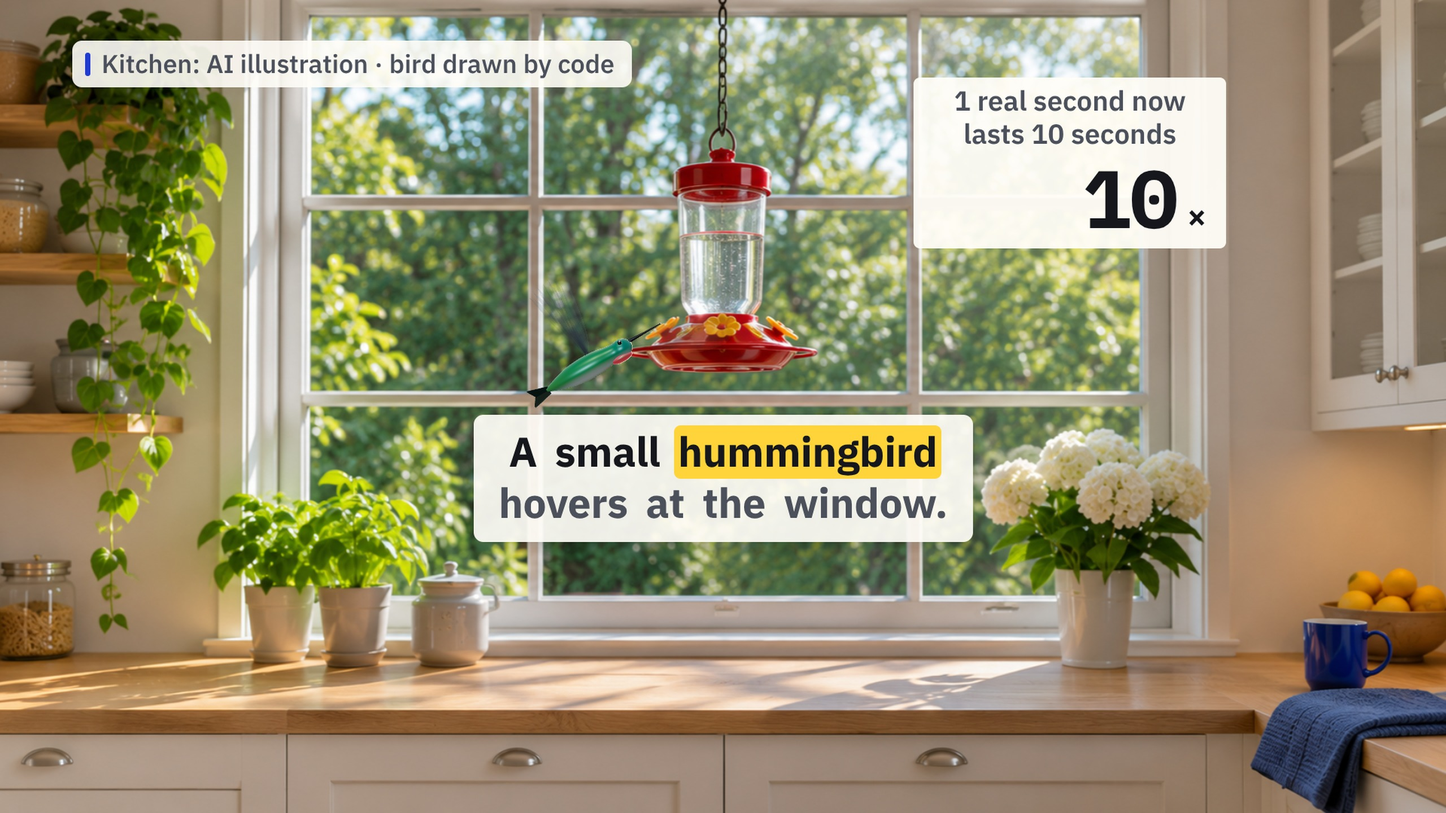
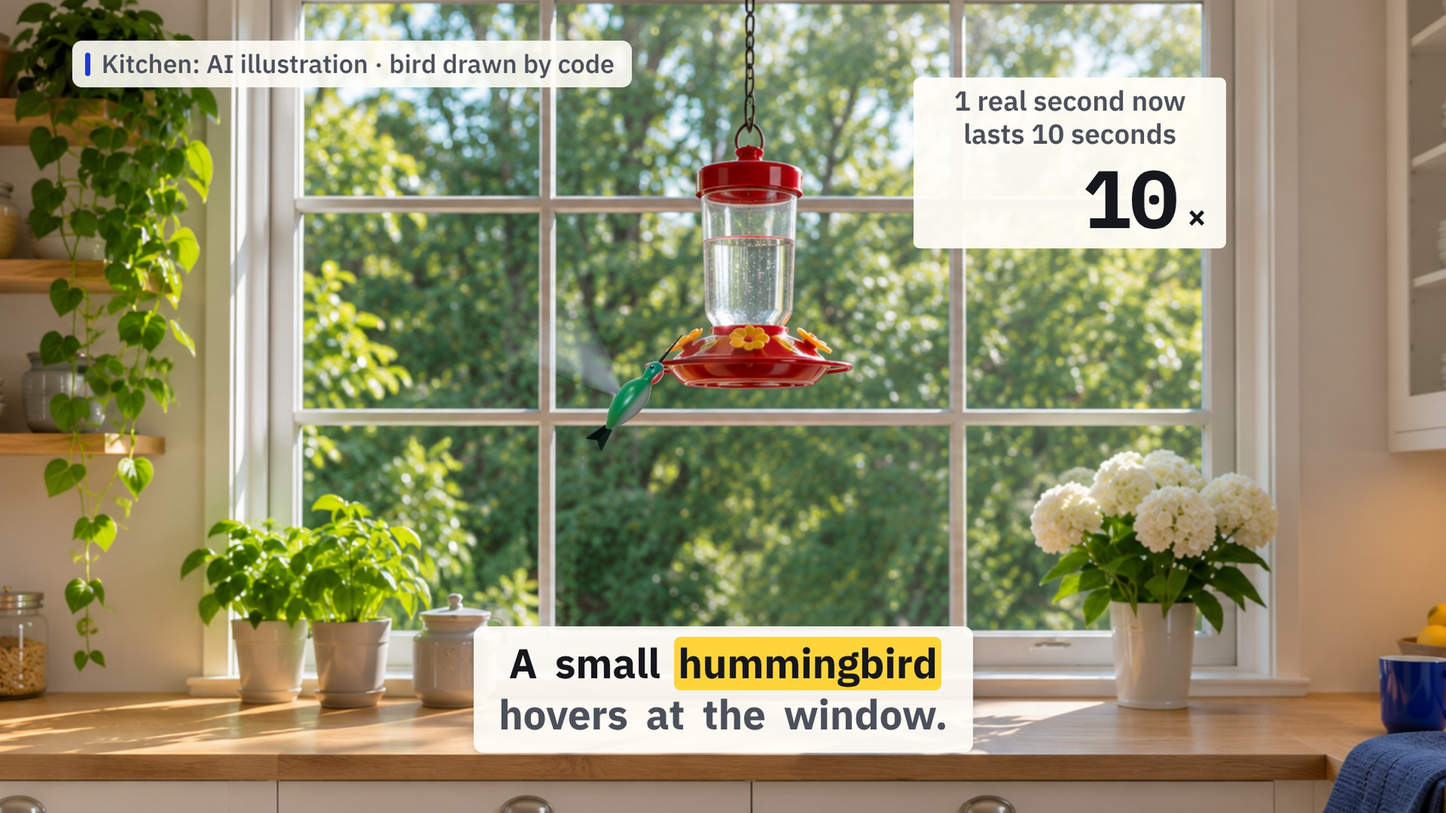
Plate-02: compact full-chested body, round head and neck, 50 deg pitch, wing trail and lighter vanes, slow push 1.0 to 1.35 centred on the bird and feeder, per-aspect caption height
Claude-Session: https://claude.ai/code/session_0192s8Y3nHgGCCsvNARxNLPn

diff --git a/films/channels/physics/set/plates.js b/films/channels/physics/set/plates.js
@@ -79,6 +79,8 @@ export const createPlates = ({ scene, camera, W, H, FILM, canvas }) => {
     it.ok = true;
   })).catch(() => {});
   const active = (t) => { for (const it of items) if (it.ok && t >= it.p.t0 && t < it.p.t1) return it; return null; };
+  // where the picture is moved so its subject sits at the frame's centre (metres at 1 m, the camera aims the same way): 9:16 uses shift9 at once, a push-in ramps its shift with the push so the picture's edge never shows
+  const shiftAt = (it, t) => { const p = it.p, d = Math.max(0, Math.min(1, (t - p.t0) / (p.t1 - p.t0))), sh = nine && p.shift9 ? p.shift9 : p.shift; if (!sh) return { x: 0, y: 0, ppm: 1 }; const k = nine && p.shift9 ? 1 : d; return { x: sh.x * k, y: (sh.y || 0) * d, ppm: sh.ppm }; };
   const apply = (t) => {
     for (const it of items) { for (const im of it.imgs) im.style.display = "none"; if (it.swapImg) it.swapImg.style.display = "none"; }
     const it = active(t); if (!it) return false;
@@ -87,16 +89,16 @@ export const createPlates = ({ scene, camera, W, H, FILM, canvas }) => {
     const swapped = it.swapImg && t >= it.p.swap.t;
     (swapped ? [it.swapImg] : it.imgs).forEach((im) => {
       const dep = +im.dataset.depth || 0, s = 1 + push * d * (p.cam3 ? 1 : 1 + 0.6 * dep), shift = par * (d - 0.5) * W * (1 + dep), over = p.over ?? (p.cam3 ? 1 : 1.04);
-      const cs = im.naturalWidth ? Math.max(W / im.naturalWidth, H / im.naturalHeight) : 1, sh9 = nine && p.shift9 ? -p.shift9.x * p.shift9.ppm * cs : 0;   // 9:16: the crop is moved so the subject sits at the centre (the camera yaws the same amount)
-      im.style.display = "block"; if (im.tagName === "IMG") im.style.objectPosition = `calc(50% + ${sh9.toFixed(2)}px) 50%`; im.style.opacity = String(Math.max(0, Math.min(1, a))); im.style.transform = `translate(${shift.toFixed(2)}px,0) scale(${(s * over).toFixed(5)})`;
+      const cs = im.naturalWidth ? Math.max(W / im.naturalWidth, H / im.naturalHeight) : 1, sf = shiftAt(it, t), sh9 = -sf.x * sf.ppm * cs, shy = sf.y * sf.ppm * cs;   // 9:16: the crop is moved so the subject sits at the centre (the camera yaws the same amount)
+      im.style.display = "block"; if (im.tagName === "IMG") im.style.objectPosition = `calc(50% + ${sh9.toFixed(2)}px) calc(50% + ${shy.toFixed(2)}px)`; im.style.opacity = String(Math.max(0, Math.min(1, a))); im.style.transform = `translate(${shift.toFixed(2)}px,0) scale(${(s * over).toFixed(5)})`;
     });
     return true;
   };
   const cam = (t) => { const it = active(t); return it && it.p.cam ? it.p.cam : null; };
   const zoom = (t) => { const it = active(t); if (!it) return 1; const p = it.p; return 1 + (p.push ?? 0.05) * Math.max(0, Math.min(1, (t - p.t0) / (p.t1 - p.t0))); };
-  const cam3 = (t) => { const it = active(t); if (!it || !it.p.cam3) return null; const c = it.p.cam3; return nine && it.p.shift9 ? { ...c, target: [c.target[0] + it.p.shift9.x, c.target[1], c.target[2]] } : c; };
+  const cam3 = (t) => { const it = active(t); if (!it || !it.p.cam3) return null; const c = it.p.cam3; const sf = shiftAt(it, t); return sf.x || sf.y ? { ...c, target: [c.target[0] + sf.x, c.target[1] + sf.y, c.target[2]] } : c; };
   const anchor = (t) => { const it = active(t); return it && it.p.anchor ? it.p.anchor : null; };
-  const drawNight = (t, R, w) => { const it = active(t); if (!it || !it.night) return false; const sh9 = nine && it.p.shift9 ? -it.p.shift9.x * it.p.shift9.ppm * Math.max(W / 1672, H / 941) : 0; it.night.draw(R, w, sh9); return true; };
+  const drawNight = (t, R, w) => { const it = active(t); if (!it || !it.night) return false; const sf = shiftAt(it, t), sh9 = -sf.x * sf.ppm * Math.max(W / 1672, H / 941); it.night.draw(R, w, sh9); return true; };
   const imageOf = (id) => { const it = items.find((q) => q.p.id === id); return it && it.ok ? it.imgs[0] : null; };
   return { ready, apply, cam, cam3, zoom, anchor, active, items, imageOf, drawNight };
 };

diff --git a/films/channels/physics/lf01/build.py b/films/channels/physics/lf01/build.py
@@ -259,10 +259,10 @@ PLATE02_9 = "../lf01/art/owner/plates/plate-02-feeder-9x16.png" if (HERE / "art/
 # plate-02: the window with the hanging feeder (ports at about x 770-895, y 378 px of 1672x941). A pinhole camera at the origin: 1790 px per meter at 1 m, so the dish (215 px) is 12 cm; the bird (about 10 cm) hovers left of the left port, beak at the port.
 _PX = 1790.0
 _w = lambda px, py, z=-1.0: [round((px - 836) / _PX * -z, 4), round(0.4 + (470.5 - py) / _PX * -z, 4), z]   # the camera sits 0.4 m up (a camera at the exact origin makes the finish's motion estimate NaN)
-_p02 = {"id": "feeder", "file": PLATE02, "file9": PLATE02_9, "push": 0.05, "parallax": 0, "fade": 0.05,
+_p02 = {"id": "feeder", "file": PLATE02, "file9": PLATE02_9, "push": 0.35, "parallax": 0, "fade": 0.05, "shift": {"x": round((735 - 836) / _PX, 4), "y": round((470.5 - 400) / _PX, 4), "ppm": _PX},   # a slow push from 1.0x to 1.35x, centred between the bird and the feeder
         "cam3": {"pos": [0, 0.4, 0], "target": [0, 0.396, -1], "fov": 29.5},   # a hair of pitch: a camera looking exactly level makes the finish's motion probe NaN
-        "shift9": {"x": round((735 - 836) / _PX, 4), "ppm": _PX},   # 9:16: bird and feeder in the middle of the crop
-        "anchor": {"bird": {"tip": _w(768, 378), "scale": 0.027, "yaw": -0.25, "tilt": 0.5},   # the bill tip goes into the left port flower
+        "shift9": {"x": round((735 - 836) / _PX, 4), "y": round((470.5 - 400) / _PX, 4), "ppm": _PX},   # 9:16: bird and feeder in the middle of the crop
+        "anchor": {"bird": {"tip": _w(768, 378), "scale": 0.027, "yaw": -0.25, "tilt": 0.87},   # the bill tip goes into the left port flower
                    "shadow": {"pos": _w(790, 396, -1.002), "w": 0.07, "h": 0.026, "opacity": 0.4}}}
 # plate-03: the tap and the cobalt mug (Part 2). The mug's rim (full to the brim) is 415 px wide in the 1672 px picture: 0.0395 m of cup radius at 5240 px per code-metre, drawn at z = -0.31 (5774 px/m)
 PLATE03 = "../lf01/art/owner/plates/plate-03-tap-mug-16x9.png"; PLATE03C = "../lf01/art/owner/plates/plate-03-tap-mug-clean-16x9.png"
@@ -340,7 +340,7 @@ film = {
     "spine": SPINE, "spineAt": SPINE_AT, "factorKeys": KEYS, "ramp": RAMP, "labelKeys": LBL, "ev": EV, "cam": CAM,
     "calc": {"c": CALC["c"], "hz": {"hum": 50.0, "fly": 200.0, "mosq": 500.0}, "bubble_t": CALC["bubble"]["t_s"], "bullet": CALC["bullet"],
              "sound": 343.0, "leader": CALC["leader"], "light": CALC["light"]["m_per_ns"], "hair_m": CALC["hair"]["m"]},
-    "badges": BADGES, "captionY": CAPY,
+    "badges": BADGES, "captionY": ({"9x16": CAPY, "16x9": 0.77} if PART else CAPY),
     "title": ({"series": f"Reality Rulebook · Season 3 · Part {PART} of 8", "title": TITLES[PART - 1]} if PART else {"series": "Reality Rulebook · Season 3", "title": "How Much Would You Slow Time to Watch Light Move?"}),
     "disclosures": {"aiVoice": True},
     "drifts": ([[18.5, 21.1], [62.0, 64.4], [64.7, 67.7]] if PART == 4 else None),
